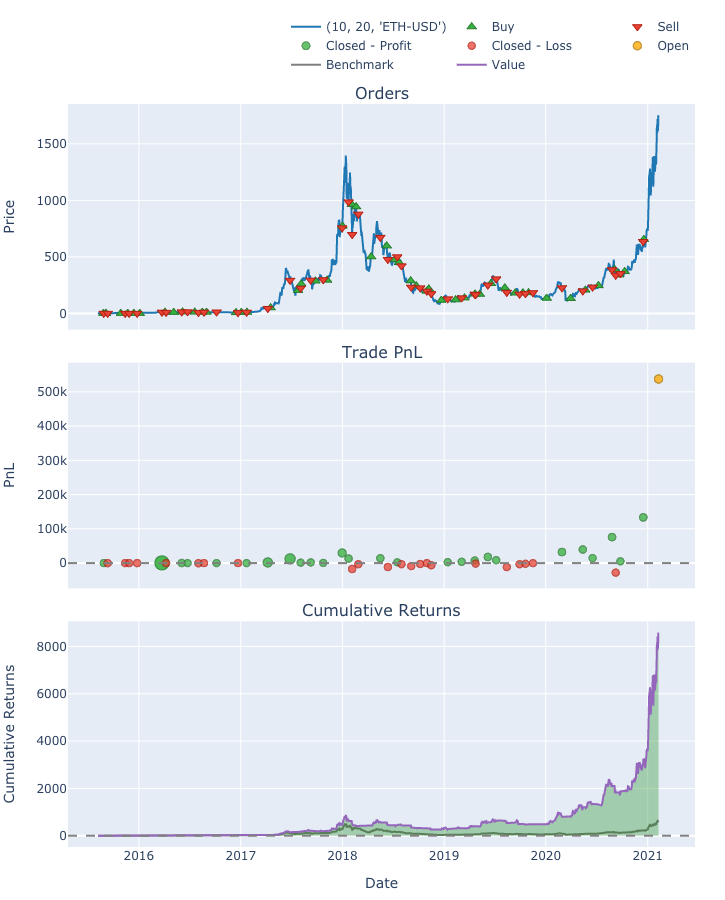
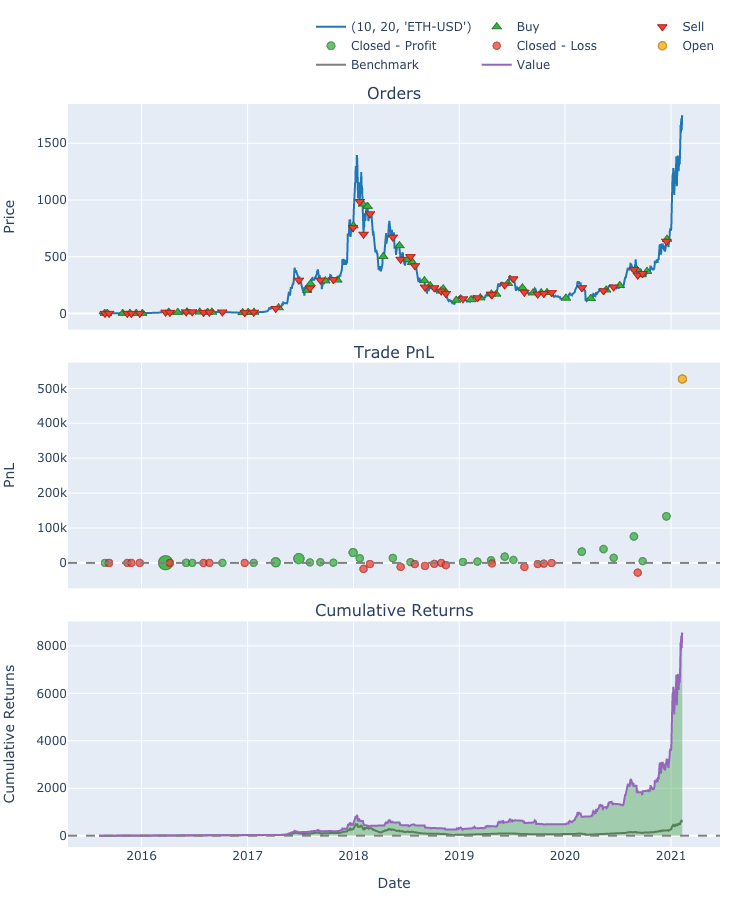
[skip travis] Update default portfolio figure size

diff --git a/vectorbt/portfolio/base.py b/vectorbt/portfolio/base.py
@@ -2375,7 +2375,7 @@ class Portfolio(Wrapping):
         # Set up figure
         rows = make_subplots_kwargs.pop('rows', len(subplots))
         cols = make_subplots_kwargs.pop('cols', 1)
-        width = kwargs.get('width', layout['width'] + 25)
+        width = kwargs.get('width', layout['width'] + 50)
         height = kwargs.get('height', (layout['height'] - 50) * rows if rows > 1 else layout['height'])
         specs = make_subplots_kwargs.pop('specs', [[{} for _ in range(cols)] for _ in range(rows)])
         row_col_tuples = []
